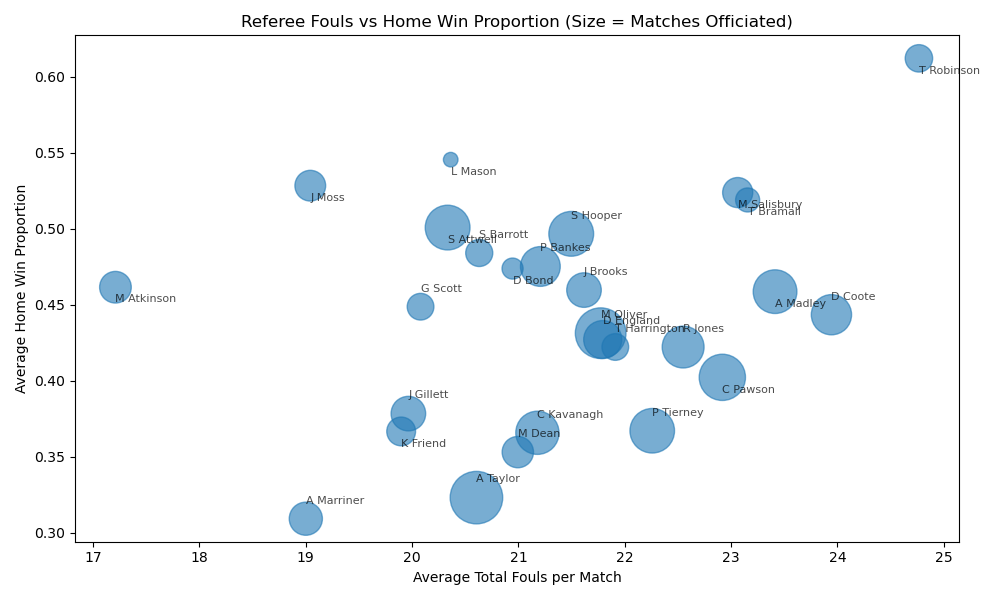
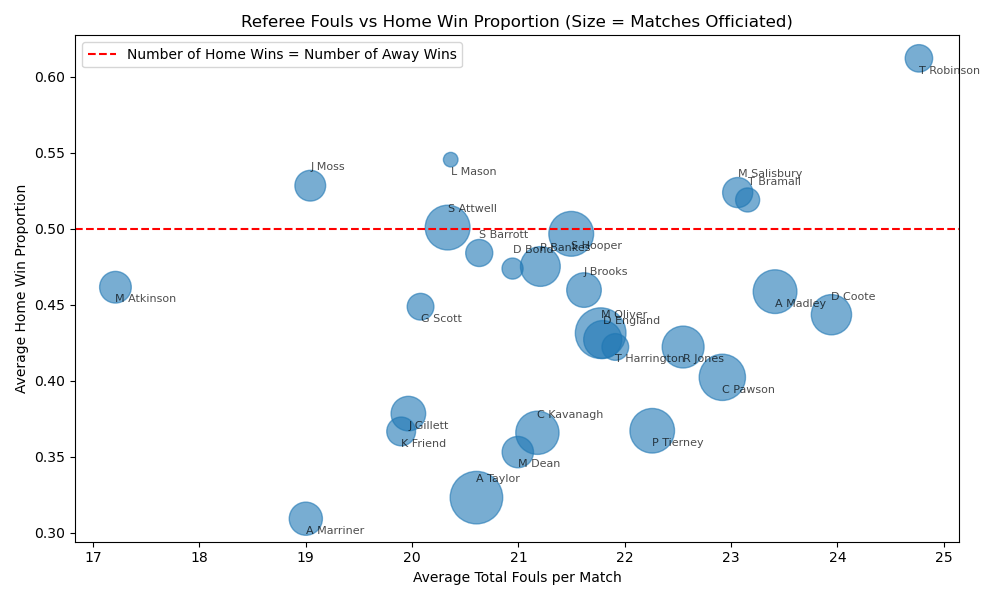
minor changes before new machine

diff --git a/src/Game_by_game/external_factors.py b/src/Game_by_game/external_factors.py
@@ -4,12 +4,167 @@ import matplotlib.pyplot as plt
 import seaborn as sns
 from Upsets import read_filtered_data
 import plotly.express as px
-
+from sklearn.cluster import KMeans
+from sklearn.preprocessing import StandardScaler
+from sklearn.metrics import silhouette_score
+from sklearn.decomposition import PCA
+from sklearn.manifold import TSNE
 
 IMPORTANT_COLS = [
     'Date','HomeTeam','AwayTeam','FTHG','FTAG','FTR','HTHG','HTAG','HTR',
     'Referee','HS','AS','HST','AST','HF','AF','HC','AC','HY','AY','HR','AR'
     ]
+
+def home_win_plot(all_referee_stats: pd.DataFrame):
+    # Plot scatter of total fouls vs home win proportion, colored by number of matches officiated
+    plt.figure(figsize=(10, 6))
+    scatter = plt.scatter(
+        all_referee_stats['Total_Fouls'],
+        all_referee_stats['FTR'], 
+        s=all_referee_stats['Matches_Officiated']*10, 
+        alpha=0.6,
+        )
+    
+    # annotate each point with the referee name
+    # for i, row in all_referee_stats.iterrows():
+        # plt.annotate(row['Referee'], (row['Total_Fouls'], row['FTR']), fontsize=8, alpha=0.7)
+    # avoid overlapping labels by adjusting the position of the annotations
+    for i, row in all_referee_stats.iterrows():
+        offset = np.random.choice([-0.01, 0.01])
+        plt.annotate(row['Referee'], (row['Total_Fouls'], row['FTR']+offset), fontsize=8, alpha=0.7)
+   
+    
+    # Mark even win percentage
+    x_min, x_max = min(all_referee_stats['Total_Fouls']), max(all_referee_stats['Total_Fouls'])
+    plt.axhline(0.5, linestyle='--', color='red',label='Number of Home Wins = Number of Away Wins') 
+
+    plt.xlabel('Average Total Fouls per Match')
+    plt.ylabel('Average Home Win Proportion')
+    plt.title('Referee Fouls vs Home Win Proportion (Size = Matches Officiated)')
+    plt.legend()
+    plt.tight_layout()
+    plt.savefig('Outputs/Referee_Fouls_vs_Home_Win_Proportion.png')
+    plt.show()
+
+def test_number_clusters(df: pd.DataFrame, max_clusters: int = 10, dimen_red: str = 'pca'):
+    ''' Test different numbers of clusters and plot silhouette scores to find the optimal number of clusters '''
+    # Select referee stats for clustering
+    clustering_data = df[['Total_Fouls', 'Total_Cards', 'FTR', 'Matches_Officiated']].copy()
+
+    # Apply dimensionality reduction
+    if dimen_red == 'none' or dimen_red is None:
+        clustering_data_reduced = None
+    elif dimen_red == 'pca':
+        reducer = PCA(n_components=2, random_state=42)
+        clustering_data_reduced = reducer.fit_transform(clustering_data)
+
+    elif dimen_red == 'tsne':
+        reducer = TSNE(n_components=2, random_state=42)
+        clustering_data_reduced = reducer.fit_transform(clustering_data)
+
+    # Standardize the data
+    scaler = StandardScaler()
+    all_referee_stats = scaler.fit_transform(clustering_data_reduced if clustering_data_reduced is not None else clustering_data)
+
+    
+    silhouette_scores = []
+    for n_clusters in range(2, max_clusters + 1):
+        kmeans = KMeans(n_clusters=n_clusters, random_state=42)
+        cluster_labels = kmeans.fit_predict(all_referee_stats)
+        silhouette_avg = silhouette_score(all_referee_stats, cluster_labels)
+        silhouette_scores.append(silhouette_avg)
+        print(f'Silhouette Score for {n_clusters} clusters: {silhouette_avg:.4f}')
+
+    # Plot silhouette scores
+    plt.figure(figsize=(10, 6))
+    plt.plot(range(2, max_clusters + 1), silhouette_scores, marker='o')
+    plt.xticks(range(2, max_clusters + 1))
+    plt.xlabel('Number of Clusters')
+    plt.ylabel('Silhouette Score')
+    plt.title('Silhouette Scores for Different Numbers of Clusters')
+    plt.tight_layout()
+    plt.savefig('Outputs/Silhouette_Scores_Clusters.png')
+    plt.show()
+
+def cluster_referees(df: pd.DataFrame, n_clusters: int = 3, dimen_red: str = 'pca') -> pd.DataFrame:
+    ''' Plotting script to cluster referees based on their fouls and cards statistics using KMeans clustering '''
+
+    # Select referee stats for clustering
+    clustering_data = df[['Total_Fouls', 'Total_Cards', 'FTR', 'Matches_Officiated']].copy()
+
+    # Apply dimensionality reduction
+    if dimen_red == 'none' or dimen_red is None:
+        clustering_data_reduced = None
+    elif dimen_red == 'pca':
+        reducer = PCA(n_components=2, random_state=42)
+        clustering_data_reduced = reducer.fit_transform(clustering_data)
+
+    elif dimen_red == 'tsne':
+        reducer = TSNE(n_components=2, random_state=42)
+        clustering_data_reduced = reducer.fit_transform(clustering_data)
+
+    # Standardize the data
+    scaler = StandardScaler()
+    clustering_data_scaled = scaler.fit_transform(clustering_data_reduced if clustering_data_reduced is not None else clustering_data)
+
+    # Apply KMeans clustering
+    kmeans = KMeans(n_clusters=n_clusters, random_state=42)
+    df['Cluster'] = kmeans.fit_predict(clustering_data_scaled)
+    
+    # Calculate silhouette score to evaluate clustering quality
+    silhouette_avg = silhouette_score(clustering_data_scaled, df['Cluster'])
+    print(f'Silhouette Score for {n_clusters} clusters: {silhouette_avg:.4f}')
+
+    # Plot the clusters
+    if clustering_data_reduced is None:
+
+        plt.figure(figsize=(10, 6))
+        scatter = plt.scatter(
+            df['Total_Fouls'],
+            df['FTR'],
+            c=df['Cluster'],
+            s=df['Matches_Officiated']*10,
+            cmap='viridis',
+            alpha=0.6
+        )
+        # Add labels for each referee name
+        for i, row in df.iterrows():
+            plt.annotate(row['Referee'], (row['Total_Fouls'], row['FTR']), fontsize=8, alpha=0.7)
+        plt.xlabel('Average Total Fouls per Match')
+        plt.ylabel('Average Home Win Proportion')
+        plt.title(f'Referee Clustering based on Fouls and Home Win Proportion (n_clusters={n_clusters})')   
+        plt.tight_layout()
+        plt.savefig(f'Outputs/Referee_Clustering_n_clusters_{n_clusters}.png')
+        plt.show()
+
+
+    # plot the clusters in 2D space after dimensionality reduction
+    else:
+        plt.figure(figsize=(10, 6))
+        scatter = plt.scatter(
+            clustering_data_reduced[:, 0],
+            clustering_data_reduced[:, 1],
+            c=df['Cluster'],
+            s=df['Matches_Officiated']*10,
+            cmap='viridis',
+            # label names of referees
+            alpha=0.6
+        )
+        # match the points with the original df to get the referee names for annotation
+        df_reduced = pd.DataFrame(clustering_data_reduced, columns=['Component_1', 'Component_2'])
+        df_reduced['Referee'] = df['Referee'].values
+        for i, row in df_reduced.iterrows():
+            plt.annotate(row['Referee'], (row['Component_1'], row['Component_2']), fontsize=8, alpha=0.7)
+        plt.xlabel('Component 1')
+        plt.ylabel('Component 2')
+        plt.title(f'Referee Clustering in Reduced Dimensionality Space (n_clusters={n_clusters}, method={dimen_red})')   
+        plt.tight_layout()
+        plt.savefig(f'Outputs/Referee_Clustering_Reduced_{dimen_red}_n_clusters_{n_clusters}.png')
+        plt.show()
+
+
+
+
 
 
 def referee_analysis(df: pd.DataFrame) -> pd.DataFrame:
@@ -44,7 +199,7 @@ def referee_analysis(df: pd.DataFrame) -> pd.DataFrame:
     return sorted_referees[['Referee','Total_Fouls','Total_Cards','Matches_Officiated', 'FTR']]
 
 def main():
-    season_start, season_end = 20,25
+    season_start, season_end = 17,25
     seasons = [f'{y}_{y+1}' for y in range(season_start, season_end)]
 
     # Initialise a df for storing referee stats across seasons
@@ -91,30 +246,10 @@ def main():
     # plt.tight_layout()
     # # plt.savefig('Outputs/Top_Referees_Fouls.png')
     # plt.show()
+    cluster_referees(all_referee_stats, n_clusters=3, dimen_red='pca')
 
-    # Plot scatter of total fouls vs home win proportion, colored by number of matches officiated
-    plt.figure(figsize=(10, 6))
-    scatter = plt.scatter(
-        all_referee_stats['Total_Fouls'],
-        all_referee_stats['FTR'], 
-        s=all_referee_stats['Matches_Officiated']*10, 
-        alpha=0.6,
-        )
-    
-    # annotate each point with the referee name
-    # for i, row in all_referee_stats.iterrows():
-        # plt.annotate(row['Referee'], (row['Total_Fouls'], row['FTR']), fontsize=8, alpha=0.7)
-    # avoid overlapping labels by adjusting the position of the annotations
-    for i, row in all_referee_stats.iterrows():
-        offset = np.random.choice([-0.01, 0.01])
-        plt.annotate(row['Referee'], (row['Total_Fouls'], row['FTR']+offset), fontsize=8, alpha=0.7)
-   
-    plt.xlabel('Average Total Fouls per Match')
-    plt.ylabel('Average Home Win Proportion')
-    plt.title('Referee Fouls vs Home Win Proportion (Size = Matches Officiated)')
-    plt.tight_layout()
-    plt.savefig('Outputs/Referee_Fouls_vs_Home_Win_Proportion.png')
-    plt.show()
+
+    # test_number_clusters(all_referee_stats, max_clusters=10, dimen_red='none')
 
     # Use seaborn to create an interactive scatter plot of total fouls vs home win proportion, colored by number of matches officiated with labels for each name
     # plt.figure(figsize=(10, 6))
